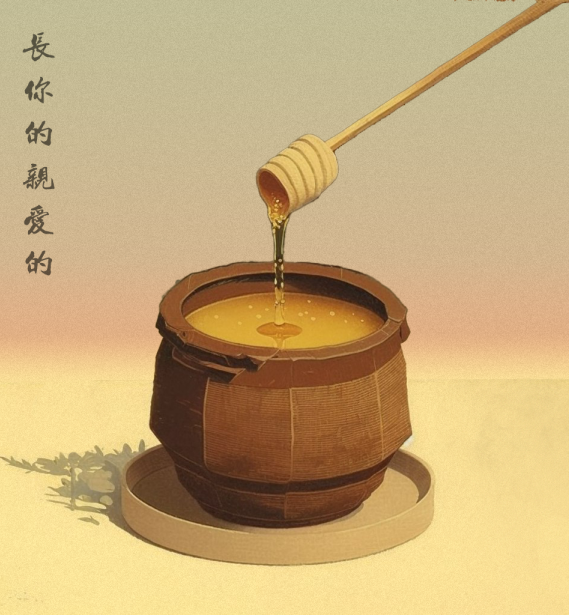
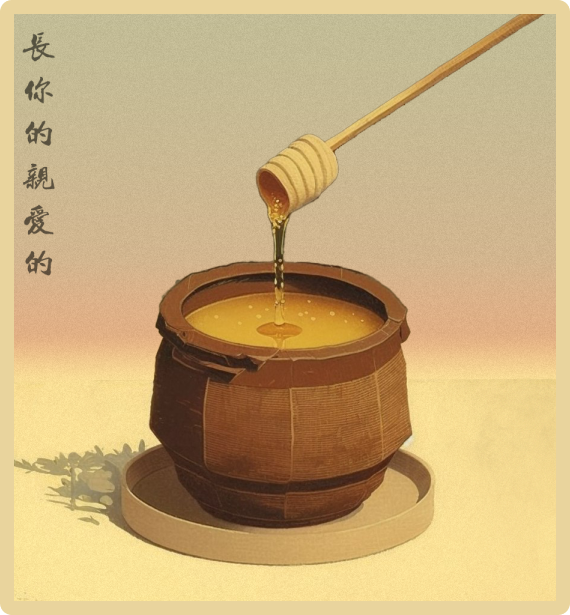
mobile

diff --git a/src/components/Honey/index.css b/src/components/Honey/index.css
@@ -23,16 +23,16 @@
 }
 .honey-image {
   max-width: 570px;
-  max-height: 615px;
+  height: 550px;
   border-radius: 20px;
 }
 .honey-card {
   color: #2d344a;
   display: flex;
   flex-direction: column;
-  justify-content: space-between;
+
   max-width: 570px;
-  max-height: 615px;
+  max-height: 510px;
   padding: 20px;
   background-color: #fde7aa;
   box-shadow: 10px 4px 21px rgba(0, 0, 0, 0.25);
@@ -44,8 +44,8 @@
   font-family: "Mitr";
   font-style: normal;
   font-weight: 700;
-  font-size: 16px;
-  line-height: 150%;
+  font-size: 15px;
+  line-height: 100%;
   padding: 35px;
 
   /* or 24px */
@@ -57,7 +57,7 @@
   justify-content: space-around;
 }
 .honey-btn {
-  font-family: "DM Sans";
+  font-family: "Mitr", sans-serif;
   font-style: normal;
   font-weight: 700;
   font-size: 16px;
@@ -123,7 +123,7 @@
     flex-direction: column;
     justify-content: space-between;
     max-width: 85vw;
-    min-height: fit-content;
+    max-height: fit-content;
     padding: 10px;
     background-color: #fde7aa;
     box-shadow: 10px 4px 21px rgba(0, 0, 0, 0.25);
@@ -149,7 +149,7 @@
     justify-content: space-around;
   }
   .honey-btn {
-    font-family: "DM Sans";
+    font-family: "Mitr", sans-serif;
     font-style: normal;
     font-weight: 700;
     font-size: 12px;

diff --git a/src/components/Presale/index.css b/src/components/Presale/index.css
@@ -112,7 +112,7 @@
   align-items: center;
   justify-content: center;
   padding: 20px;
-  font-family: "DM Sans";
+  font-family: "Mitr";
   font-style: normal;
   font-weight: 700;
   font-size: 16px;
@@ -172,6 +172,7 @@
 }
 
 .presale-card-right-bottom-input {
+  outline: none;
   box-sizing: border-box;
   margin-top: 10px;
   width: 100%;
@@ -279,7 +280,6 @@
     color: #9a6d4a;
   }
   .presale-card-left-top-1-content {
-    font-family: "Mitr";
     font-style: normal;
     font-weight: 700;
     font-size: 24px;
@@ -373,7 +373,7 @@
 
   .presale-card-right-bottom-input {
     border: none;
-
+    outline: none;
     box-sizing: border-box;
     margin-top: 10px;
     width: 100%;

diff --git a/src/components/Navbar/index.css b/src/components/Navbar/index.css
@@ -4,7 +4,7 @@
 }
 .navbar-btn {
   border: none;
-  font-family: "DM Sans";
+  font-family: "Mitr";
   font-style: normal;
   font-weight: 700;
   font-size: 12px;
@@ -19,7 +19,7 @@
   width: 80px;
   text-align: center;
   justify-content: center;
-  margin-right: 10px;
+  margin: 10px;
 }
 
 @media screen and (max-width: 780px) {

diff --git a/src/index.css b/src/index.css
@@ -7,3 +7,8 @@ body {
   background-color: #da835b;
   font-family: "Mitr", sans-serif;
 }
+@media screen and (max-width: 780px) {
+  body {
+    width: 90vw;
+  }
+}
